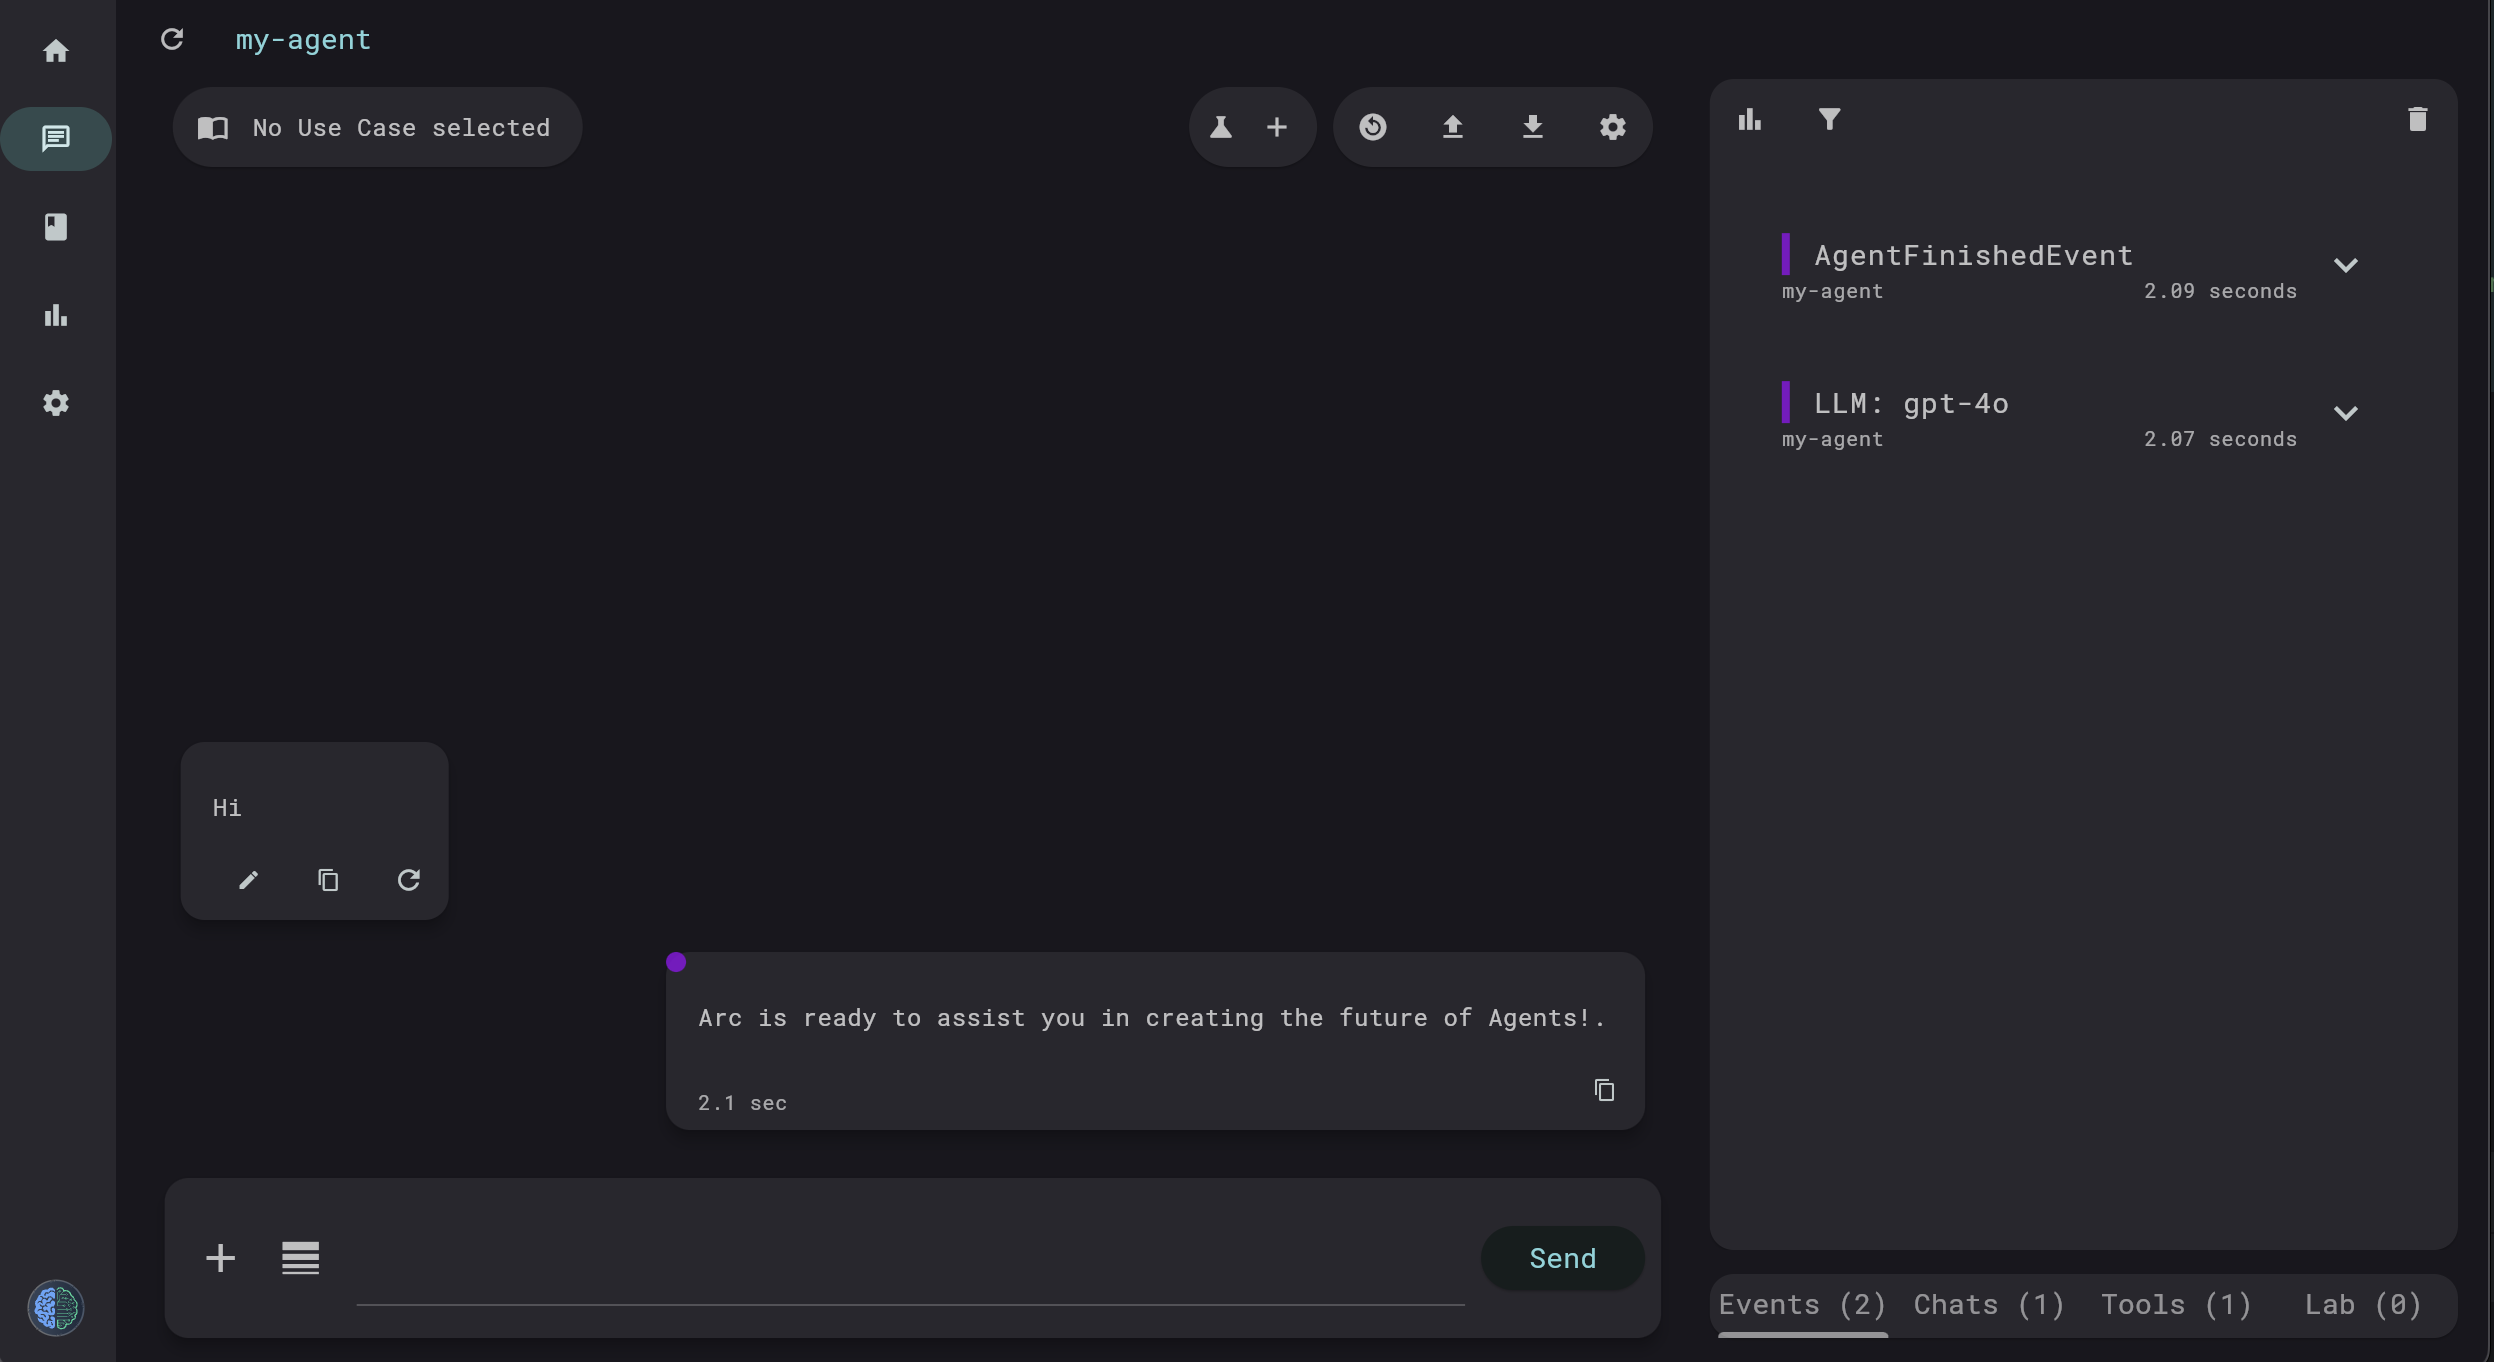
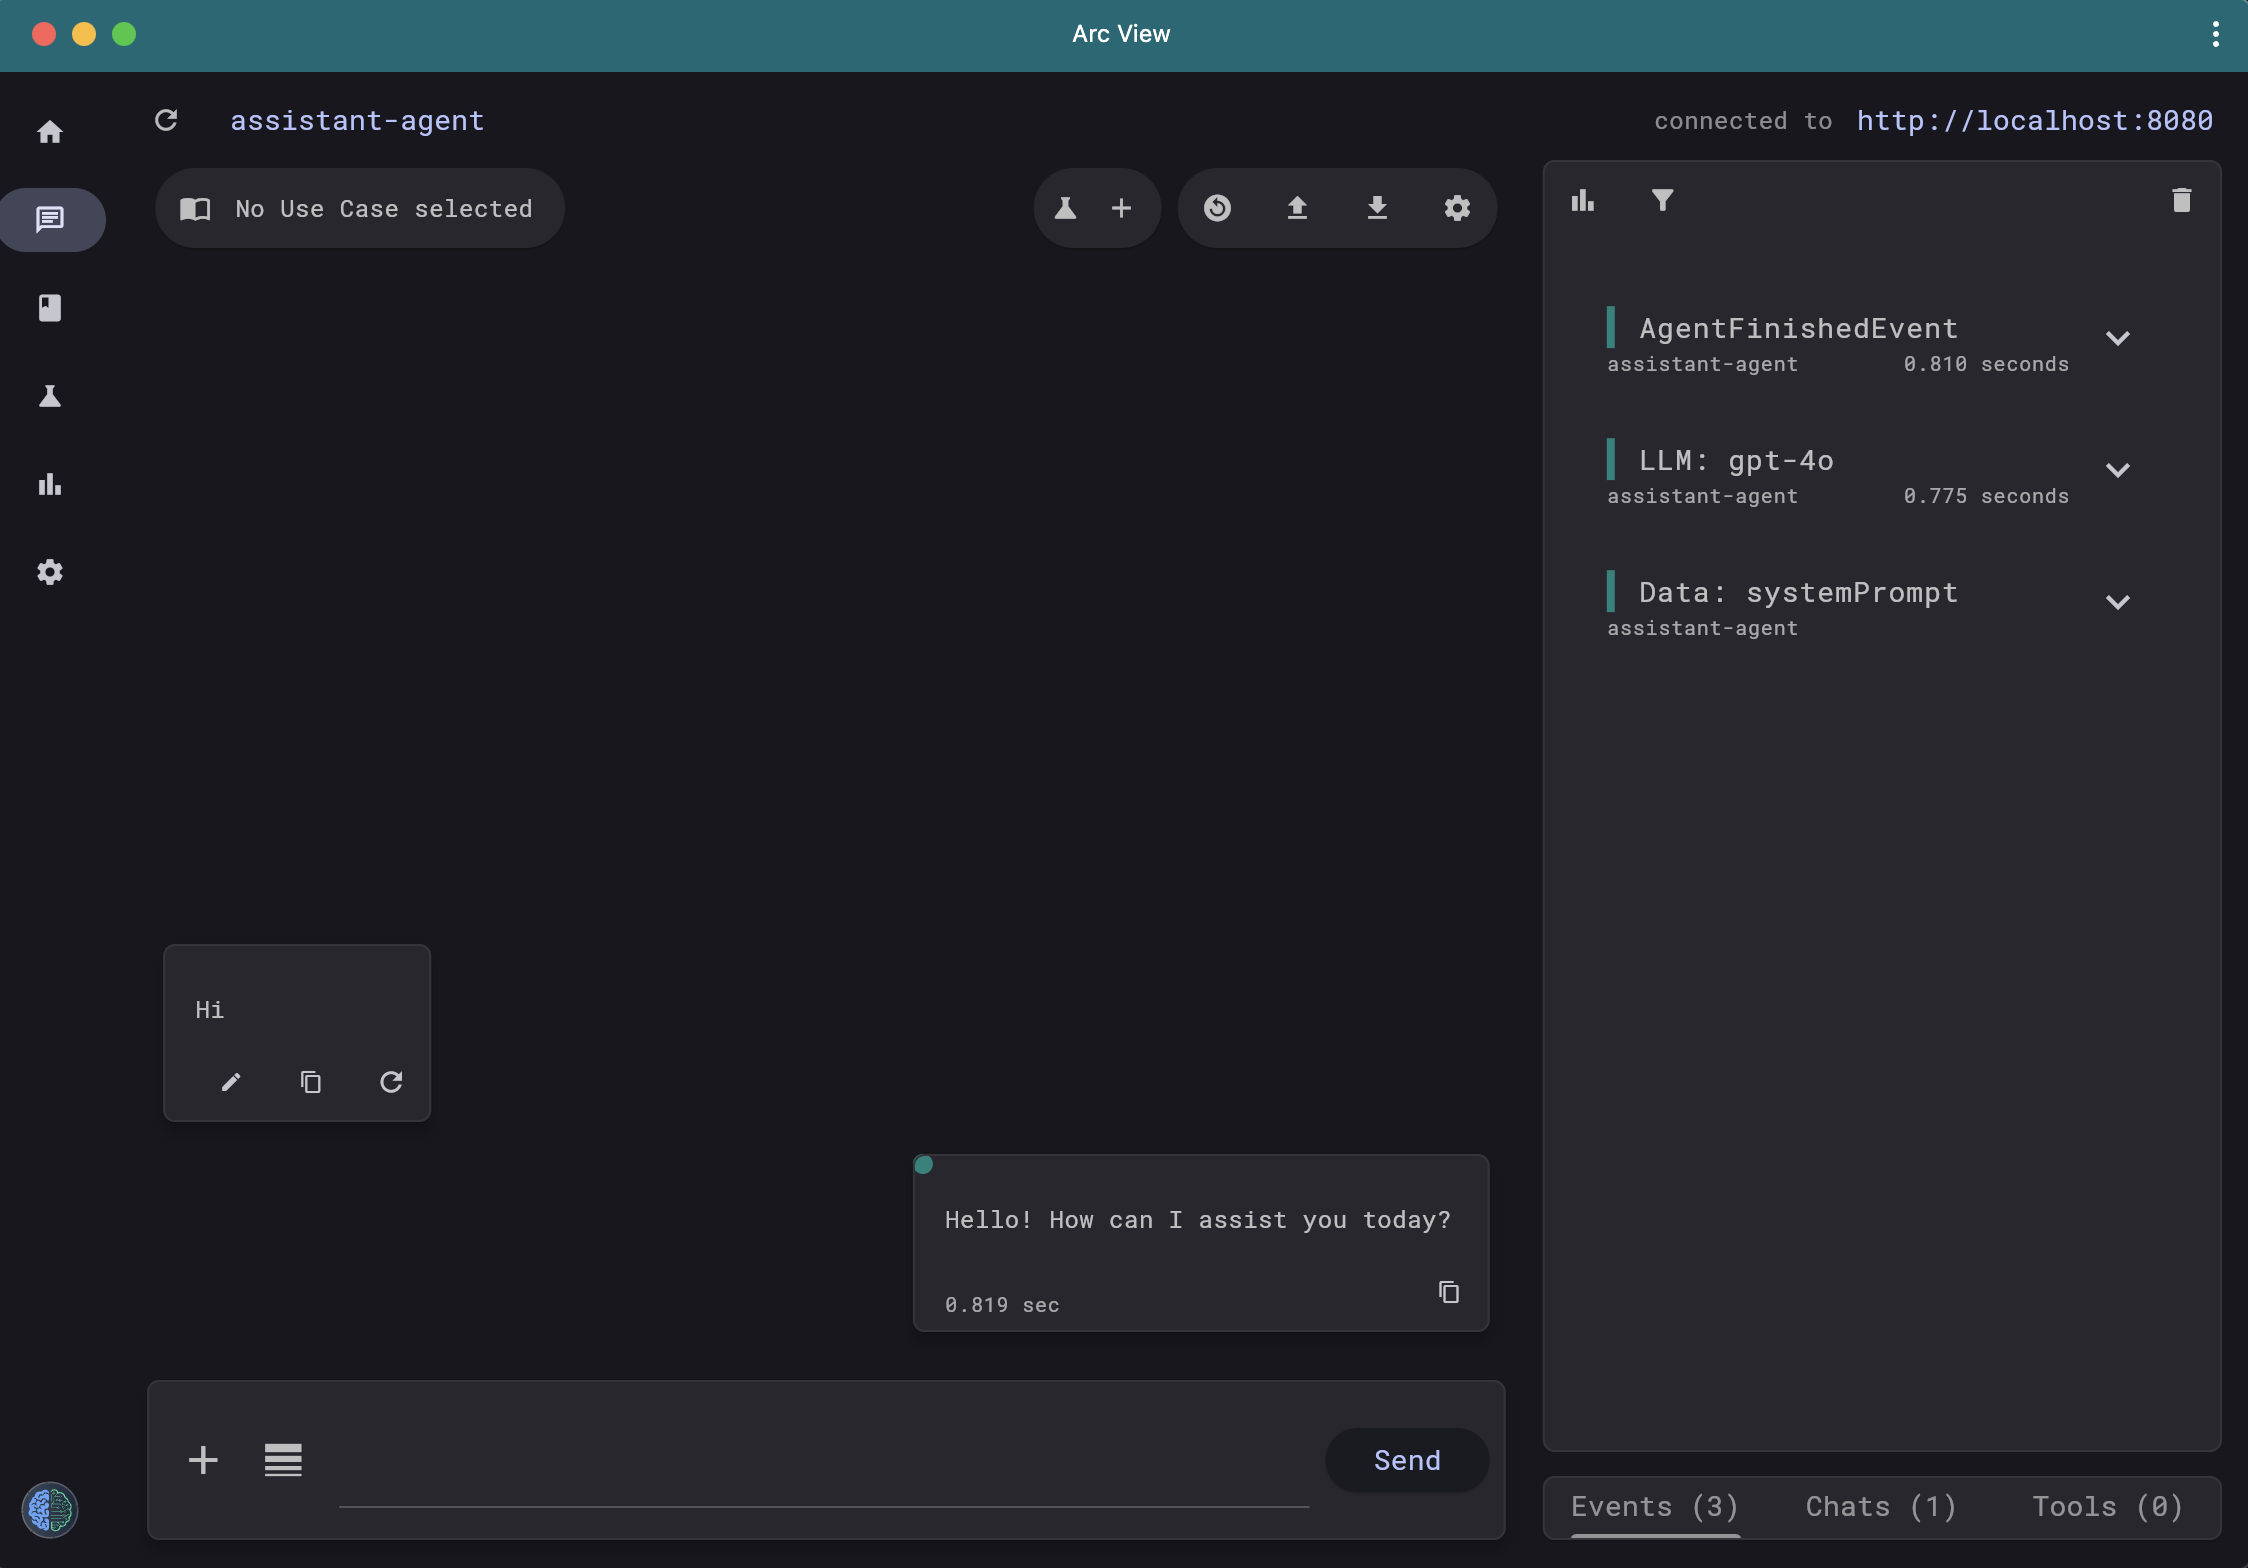
fix: update arc quickstart

diff --git a/docs/arc/01-quickstart.md b/docs/arc/01-quickstart.md
@@ -63,15 +63,17 @@ agent {
 arc run agents
 arc view
 ```
-**NOTE: ** by default arc agents run on port 8080. Make sure the port is available.<br/>
+**NOTE:** by default arc agents run on port 8080. Make sure the port is available.<br/>
+**NOTE:** The Safari browser does not supported connecting to localhost. Please use Chrome, Firefox or Edge.
 
 ![Arc View](/img/arc_view01.png)
 
 This will start the Arc Server that will host your new Arc Agent 
-and opens the Arc View that will enable you to chat with your Agent. In case arc view does not open, you can access it at https://eclipse.dev/lmos/chat/index.html#/chat.
+and opens the Arc View that will enable you to chat with your Agent. In case arc view does not open, you can access it at https://eclipse.dev/lmos/chat/index.html?agentUrl=http://localhost:8080#/chat.
 
-In case no Agent is visible on Arc chat tab then open settings and select url: http://localhost:8080 in available agent URLs.<br/>
-![Arc View settings](/img/arc_view02.png)
+If you have started the Agent under a different url or port, you can change the url 
+using the url button on the top right corner of the Arc View.
+![Arc View settings](/img/arc_view03.png)
 
 That is it! You have created and run your first Arc Agent.
 
